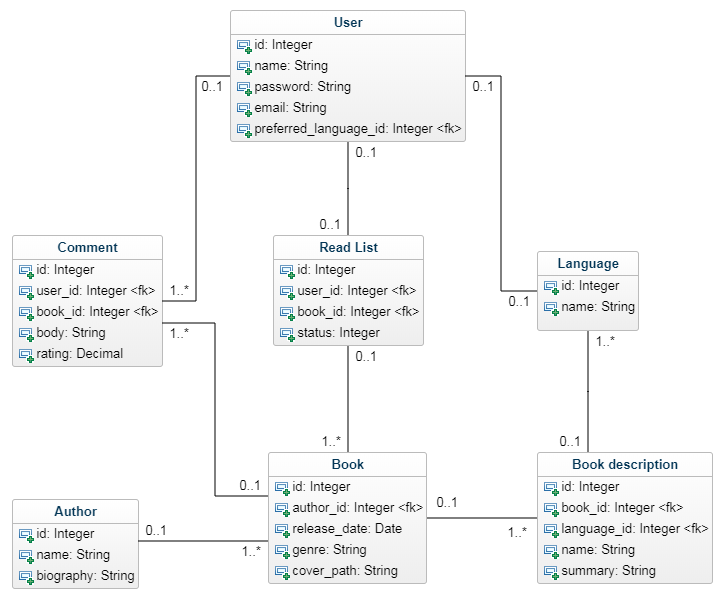
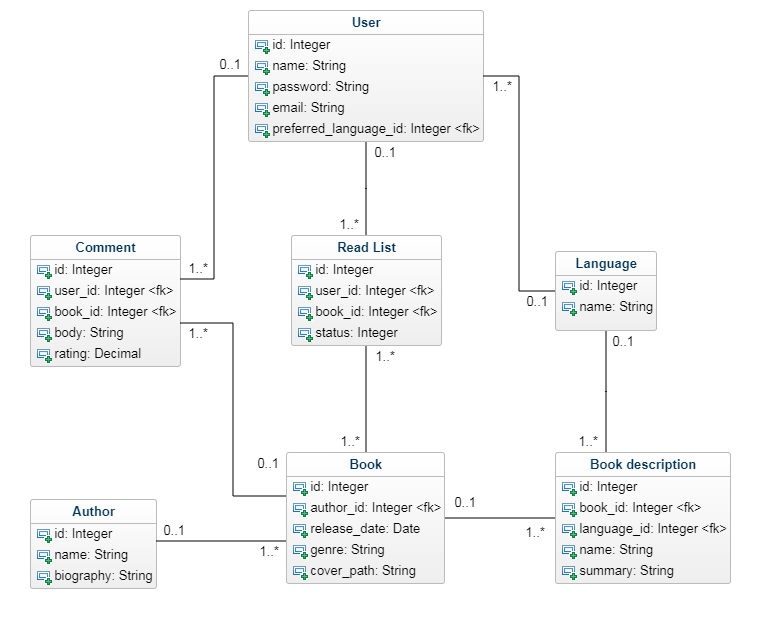
POST

Changed region(s): [[0.0, 0.0301, 0.9684, 0.9917]]

diff --git a/src/main/Java/org/elsys/ip/books/repository/LanguageRepository.java b/src/main/Java/org/elsys/ip/books/repository/LanguageRepository.java
@@ -1,8 +1,8 @@
 package org.elsys.ip.books.repository;
 
 import org.elsys.ip.books.config.HibernateUtil;
-import org.elsys.ip.books.model.Book;
 import org.elsys.ip.books.model.Language;
+import org.hibernate.Hibernate;
 import org.hibernate.Session;
 import org.hibernate.query.Query;
 
@@ -17,5 +17,24 @@ public class LanguageRepository {
         languages = (List<Language>) query.list();
         session.close();
         return languages;
+    }
+
+
+    public List<Language> addLanguages(Language language){
+        Session session = HibernateUtil.getSessionFactory().openSession();
+        session.beginTransaction();
+        session.save(language);
+        session.getTransaction().commit();
+        return getLanguages();
+    }
+
+    public Language updateLanguage(Integer id, Language language) {
+        Session session = HibernateUtil.getSessionFactory().openSession();
+        Language old = session.get(Language.class, id);
+        old.setName(language.getName());
+        session.merge(old);
+        session.getTransaction().commit();
+        session.close();
+        return null;
     }
 }

diff --git a/src/main/Java/org/elsys/ip/books/resource/LanguageResource.java b/src/main/Java/org/elsys/ip/books/resource/LanguageResource.java
@@ -3,9 +3,7 @@ package org.elsys.ip.books.resource;
 import org.elsys.ip.books.model.Language;
 import org.elsys.ip.books.service.LanguageService;
 
-import javax.ws.rs.GET;
-import javax.ws.rs.Path;
-import javax.ws.rs.Produces;
+import javax.ws.rs.*;
 import java.util.List;
 
 @Path("/languages")
@@ -16,4 +14,19 @@ public class LanguageResource {
     @Produces("application/json")
     public List<Language> getLanguages(){ return languageService.getLanguages();}
 
+    @POST
+    @Consumes("application/json")
+    @Produces("application/json")
+    public List<Language> addLanguage(Language language) {
+        return languageService.addLanguages(language);
+    }
+
+
+    @PUT
+    @Path("/{id}")
+    @Consumes("application/json")
+    @Produces("application/json")
+    public Language updateLanguage(@PathParam("id") Integer id, Language language) {
+        return languageService.updateLanguage(id, language);
+    }
 }

diff --git a/src/main/Java/org/elsys/ip/books/service/LanguageService.java b/src/main/Java/org/elsys/ip/books/service/LanguageService.java
@@ -9,4 +9,8 @@ public class LanguageService {
     private LanguageRepository languageRepository = new LanguageRepository();
 
     public List<Language> getLanguages(){ return languageRepository.getLanguages();}
+    public List<Language> addLanguages(Language language){ return languageRepository.addLanguages(language);}
+    public Language updateLanguage(Integer id, Language language) {
+        return languageRepository.updateLanguage(id, language);
+    }
 }

diff --git a/src/main/Java/org/elsys/ip/books/model/Book.java b/src/main/Java/org/elsys/ip/books/model/Book.java
@@ -53,7 +53,7 @@ public class Book implements Serializable{
     public String getCoverPath() {
         return coverPath;
     }
-    @OneToMany(fetch = FetchType.LAZY, targetEntity = Language.class)
+    @ManyToOne(fetch = FetchType.LAZY, targetEntity = Language.class)
     public Set<Language> getPrefferedLanguage() {
         return prefferedLanguage;
     }

diff --git a/src/main/Java/org/elsys/ip/books/model/Comments.java b/src/main/Java/org/elsys/ip/books/model/Comments.java
@@ -46,7 +46,7 @@ public class Comments implements Serializable{
     public Double getRating() {
         return rating;
     }
-    @OneToMany(fetch = FetchType.LAZY, targetEntity = User.class)
+    @ManyToOne(fetch = FetchType.LAZY, targetEntity = User.class)
     public Set<User> getUser() {
         return user;
     }

diff --git a/src/main/Java/org/elsys/ip/books/model/ReadList.java b/src/main/Java/org/elsys/ip/books/model/ReadList.java
@@ -39,7 +39,7 @@ public class ReadList implements Serializable{
         return status;
     }
 
-    @OneToMany(fetch = FetchType.EAGER, targetEntity = User.class)
+    @ManyToOne(fetch = FetchType.EAGER, targetEntity = User.class)
     public Set<User> getUser() {
         return user;
     }
